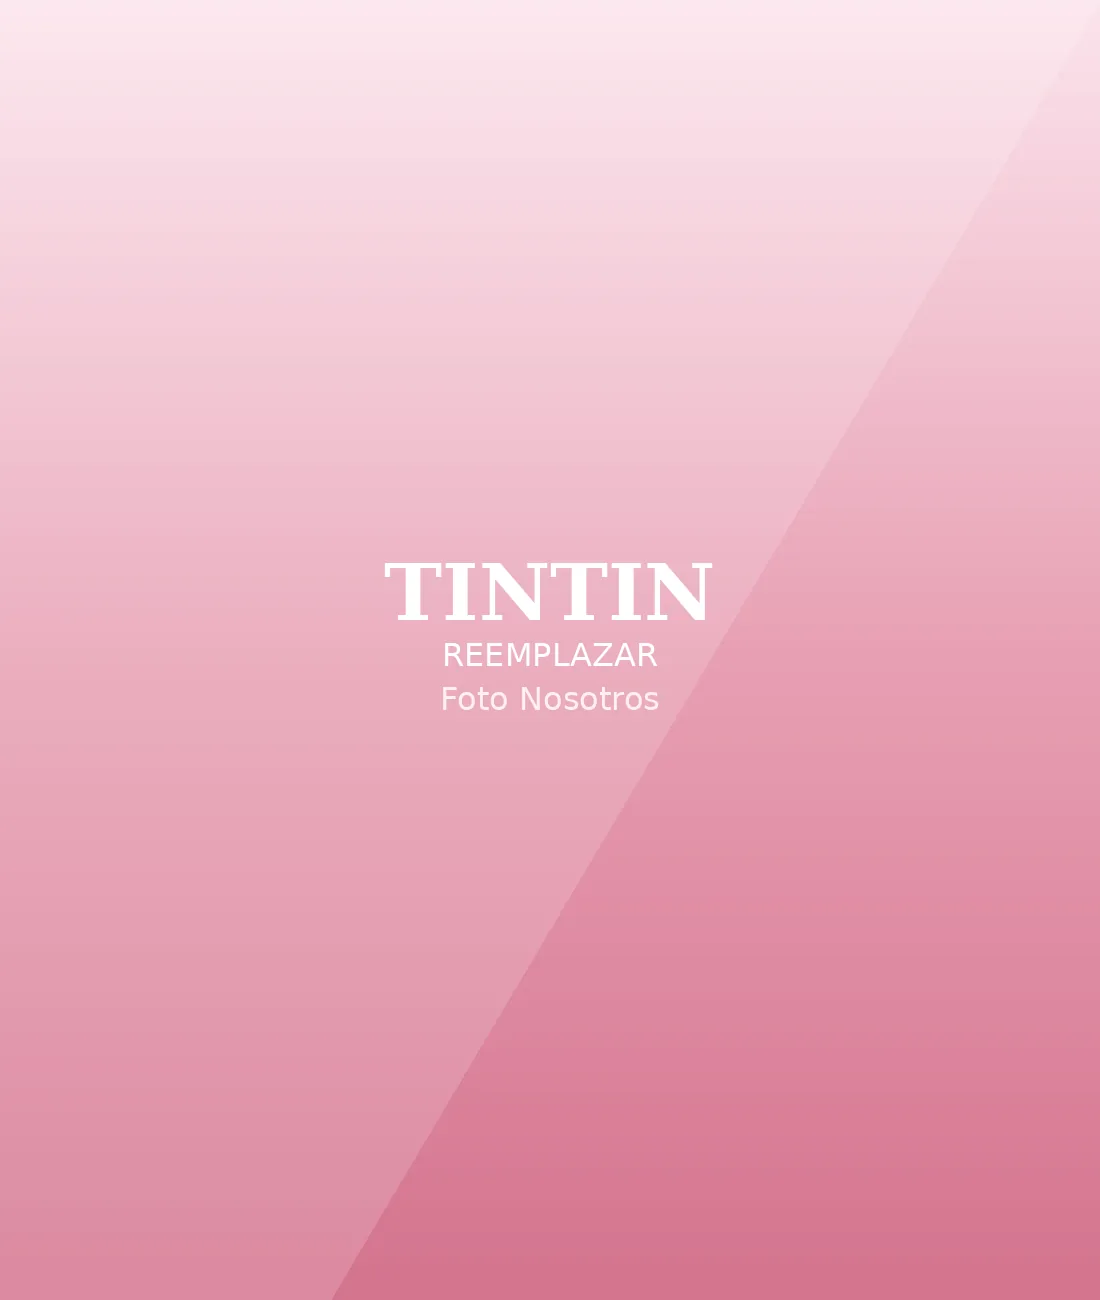
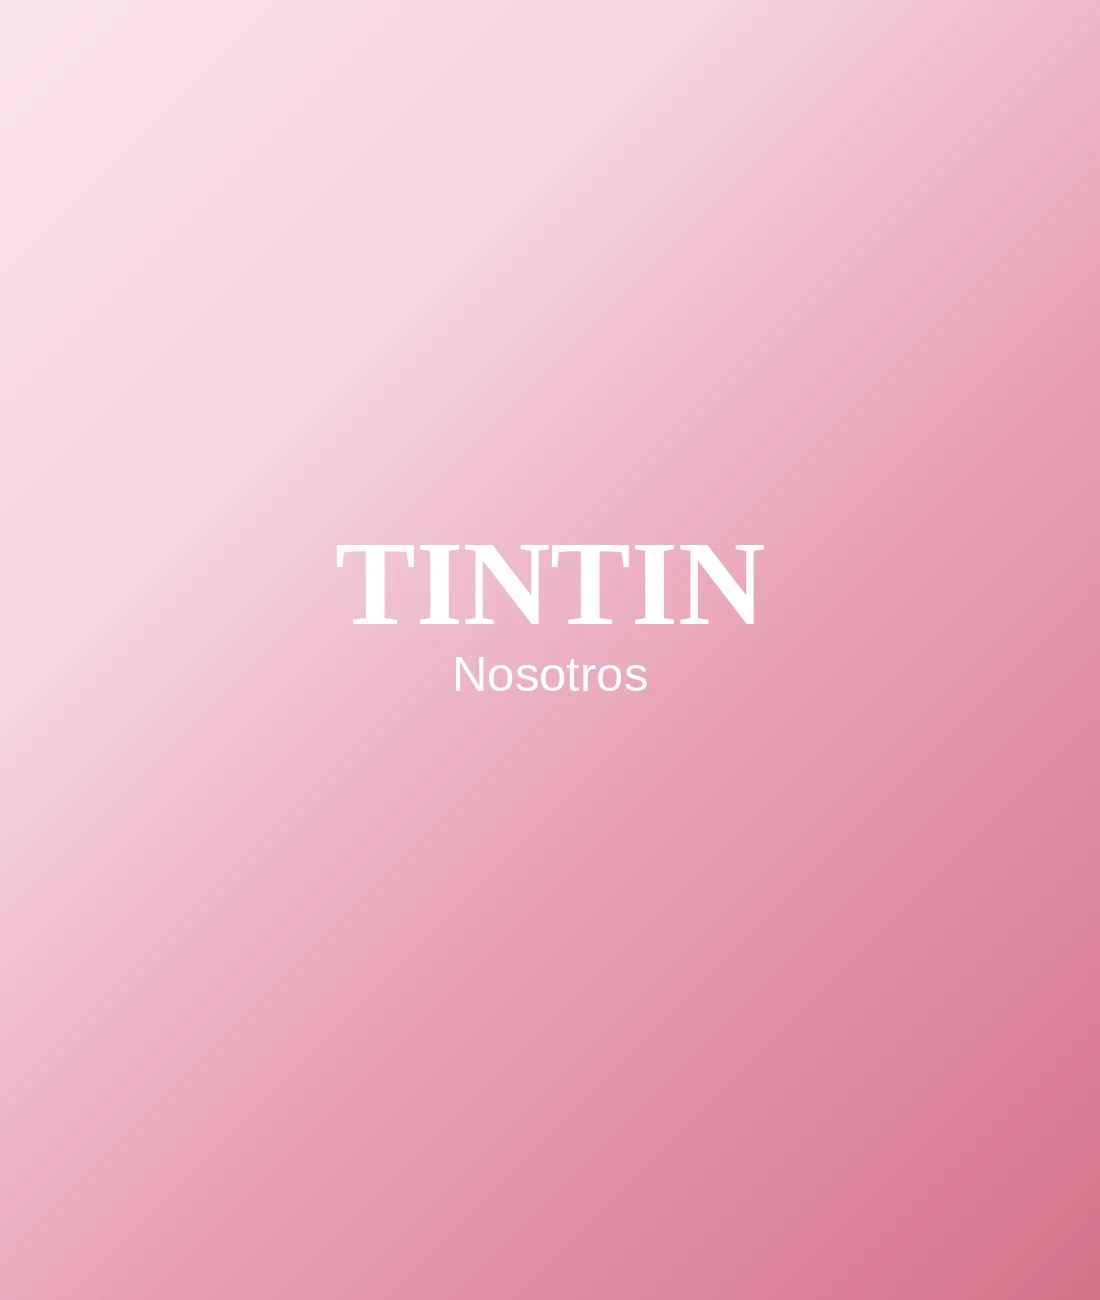
fix: layout shift en Colecciones (tablet) + placeholder de Nosotros
Revisión completa de las 18 páginas en viewport de tablet (820px, el
mismo rango 769-1024px que ya usa el CSS del sitio), con capturas
reales contra producción y scroll real (no solo el DOM en reposo) para
detectar problemas que solo aparecen al navegar de verdad.

1. collections.html sufría un salto de layout real: las tarjetas de
   colección y de producto tenían content-visibility:auto con una
   altura estimada (contain-intrinsic-size) muy por debajo de la
   altura real a 2 columnas. Al hacer scroll, la página crecía de
   golpe ~1040px cuando cada tarjeta pasaba de "reservada" a
   renderizada de verdad — confirmado midiendo scrollHeight antes y
   después de un scroll completo, reproducible de forma consistente.
   Se saca la reserva (mismo patrón que ya se usó antes para el
   desborde horizontal de este mismo mecanismo, ver los comentarios en
   css/phase8-ui-ux.css sobre "480px" y "820px").

2. La foto de Nosotros mostraba, literalmente, el texto "REEMPLAZAR"
   horneado en la imagen — una nota interna de reemplazo de contenido
   que quedó expuesta a clientes reales. Se regeneran los 3 tamaños
   (desktop/tablet/mobile) con el mismo degradé de marca pero sin esa
   palabra.

Verificado en las 18 páginas: sin overflow horizontal, sin errores de
consola/red, sin otro caso de layout shift. Nota aparte (no es un bug
de código): 3 categorías de colección (Tobilleras, Brazaletes,
Armcuff) todavía no tienen fotografía real de producto — muestran un
[…]

diff --git a/css/collections-page.css b/css/collections-page.css
@@ -66,15 +66,6 @@
   border-color: var(--color-card-border, #F1E4E7) !important;
   color: var(--color-text-primary, #2B2B2B) !important;
   box-shadow: 0 8px 28px var(--color-card-shadow, rgba(212,106,138,.10));
-  content-visibility: auto;
-}
-
-.tt-collections-page .tt-coll-page-card {
-  contain-intrinsic-size: 360px 520px;
-}
-
-.tt-collections-page .tt-product-card {
-  contain-intrinsic-size: 260px 500px;
 }
 
 .tt-collections-page .tt-coll-page-img,
